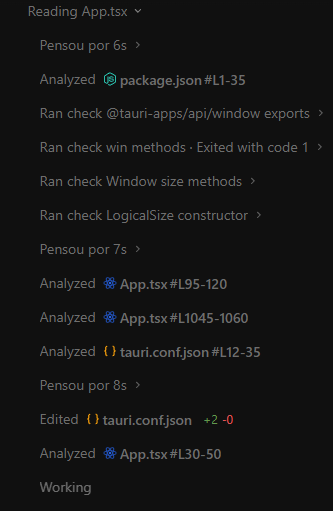
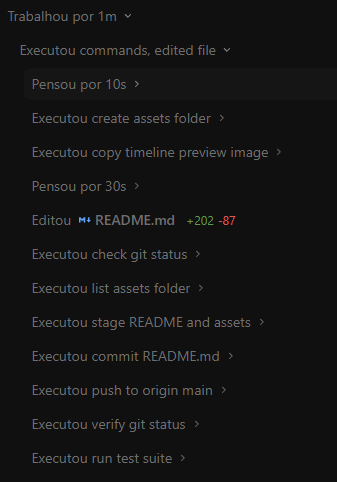
docs: adiciona capturas de tela reais do app traduzido na galeria do README

Changed region(s): [[0.03, 0.0, 0.9309, 0.8402], [0.0901, 0.8714, 0.6607, 0.9025], [0.0901, 0.9336, 0.5105, 0.9647]]

diff --git a/README.md b/README.md
@@ -52,13 +52,17 @@ Diferente de extensões superficiais de navegador, o sistema opera por meio de u
 
 ## 🖼 Demonstração Visual
 
-| Painel de Configurações | Linha do Tempo e Ações do Agente |
+| Painel de Configurações (Geral) | Modelos & Uso (Cotas e Limites) |
 | :---: | :---: |
-| <img src="assets/preview-settings.png" alt="Configurações em Português" width="460" onerror="this.src='https://placehold.co/600x400/18181b/ffffff?text=Configura%C3%A7%C3%B5es+pt-BR';"/> | <img src="assets/preview-timeline.png" alt="Timeline do Agente em Português" width="460" onerror="this.src='https://placehold.co/600x400/18181b/ffffff?text=Timeline+pt-BR';"/> |
+| <img src="assets/preview-settings.png" alt="Configurações em Português" width="460" /> | <img src="assets/preview-models.png" alt="Modelos e Uso em Português" width="460" /> |
 
-| Chat e Sugestões | Menus de Contexto e Projetos |
+| Linha do Tempo e Ações do Agente | Interface Principal e Chat |
 | :---: | :---: |
-| <img src="assets/preview-chat.png" alt="Interface de Chat" width="460" onerror="this.src='https://placehold.co/600x400/18181b/ffffff?text=Chat+e+A%C3%A7%C3%B5es';"/> | <img src="assets/preview-context.png" alt="Menus de Contexto" width="460" onerror="this.src='https://placehold.co/600x400/18181b/ffffff?text=Menus+de+Contexto';"/> |
+| <img src="assets/preview-timeline.png" alt="Timeline do Agente em Português" width="460" /> | <img src="assets/preview-chat.png" alt="Interface Principal e Chat" width="460" /> |
+
+| Personalizações e Habilidades (Skills) | Menus de Contexto e Ações Rápidas |
+| :---: | :---: |
+| <img src="assets/preview-skills.png" alt="Habilidades e Plugins em Português" width="460" /> | <img src="assets/preview-context.png" alt="Menus de Contexto em Português" width="460" /> |
 
 ---
 
